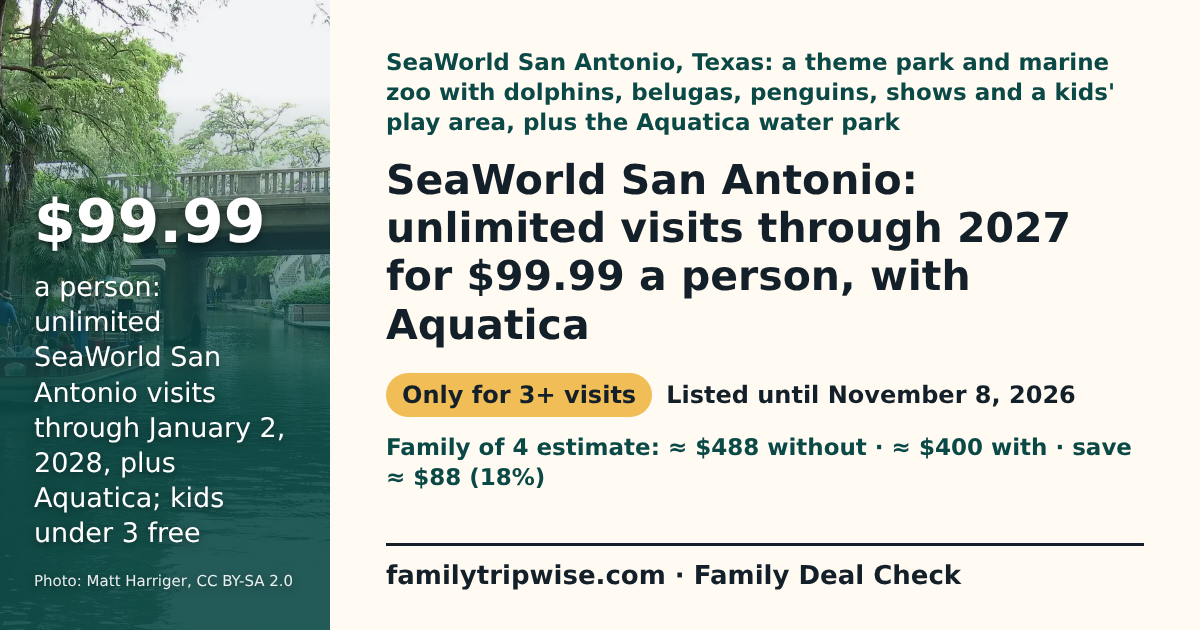
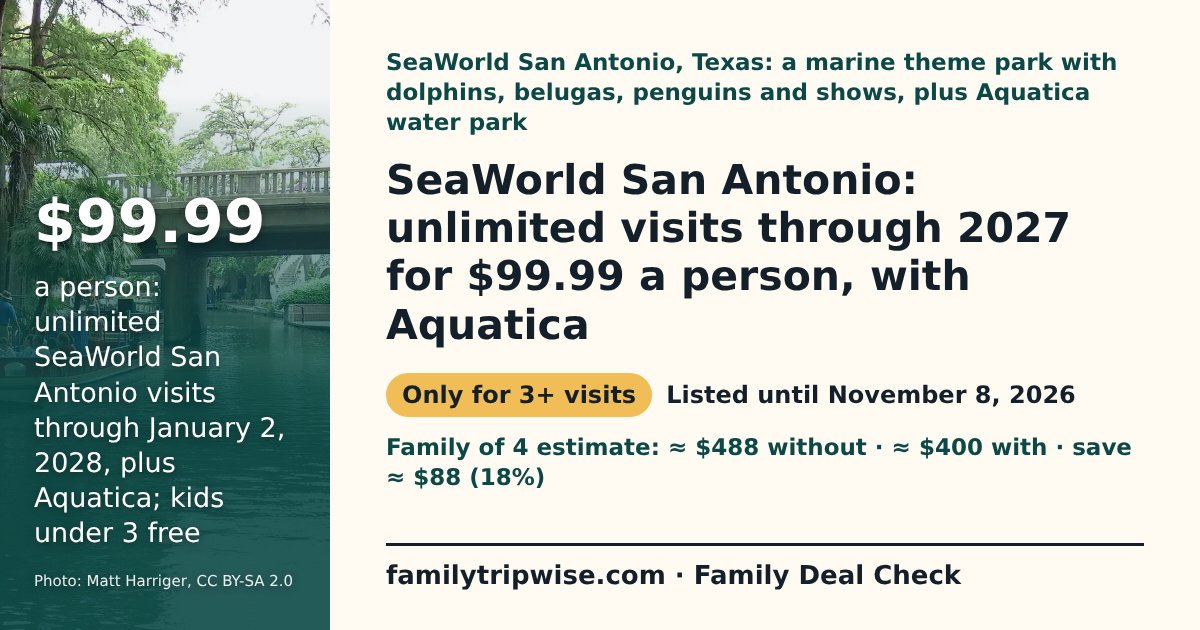
G05/G11 SeaWorld San Antonio review fixes: drop unrecorded pin-trading line, shorter context, rest-of-2026 chip, Aquatica end in post hook
Claude-Session: https://claude.ai/code/session_018uWk6vhNaiqso7SESLPcv7

Changed region(s): [[0.3083, 0.0905, 0.925, 0.2111]]

diff --git a/site/deals/seaworld-san-antonio-2027-season-pass.html b/site/deals/seaworld-san-antonio-2027-season-pass.html
@@ -4,7 +4,7 @@
     <meta charset="utf-8">
     <meta name="viewport" content="width=device-width, initial-scale=1">
     <title>SeaWorld San Antonio 2027 Season Pass: Unlimited Visits for $99.99 a Person | Family Tripwise</title>
-    <meta name="description" content="SeaWorld San Antonio, Texas: a theme park and marine zoo with dolphins, belugas, penguins, shows and a kids&#39; play area, plus the Aquatica water park. SeaWorld San Antonio: unlimited visits through 2027 for $99.99 a person, with Aquatica. Listed until November 8, 2026.">
+    <meta name="description" content="SeaWorld San Antonio, Texas: a marine theme park with dolphins, belugas, penguins and shows, plus Aquatica water park. SeaWorld San Antonio: unlimited visits through 2027 for $99.99 a person, with Aquatica. Listed until November 8, 2026.">
     <link rel="canonical" href="https://familytripwise.com/deals/seaworld-san-antonio-2027-season-pass.html">
     <meta property="og:type" content="article">
     <meta property="og:site_name" content="Family Tripwise">
@@ -24,14 +24,14 @@
       <section class="page-hero deal-hero">
         <div class="container deal-hero-grid">
           <div>
-            <p class="eyebrow deal-context">SeaWorld San Antonio, Texas: a theme park and marine zoo with dolphins, belugas, penguins, shows and a kids&#39; play area, plus the Aquatica water park</p>
+            <p class="eyebrow deal-context">SeaWorld San Antonio, Texas: a marine theme park with dolphins, belugas, penguins and shows, plus Aquatica water park</p>
             <h1>SeaWorld San Antonio: unlimited visits through 2027 for $99.99 a person, with Aquatica</h1>
             <div class="spend-save" role="group" aria-label="What it costs a family of 4 with and without the deal"><p class="ss-title">Estimate for 2 adults and 2 kids aged 6 and 9, 3 park visits in 2027</p>
               <dl class="ss-row"><div><dt>Without the deal</dt><dd>≈ $488</dd></div><div><dt>With the deal</dt><dd>≈ $400</dd></div><div class="ss-save"><dt>You save</dt><dd>≈ $88 <small>(18%)</small></dd></div></dl>
               <p class="ss-basis">Prices checked November 1, 2026. Park tickets only; tax, fees, parking and travel not counted.</p>
               <p class="ss-verdict">From a 3rd visit the Season Pass is cheaper; for two back-to-back days, the $68 Two Day Flex Ticket costs less.</p>
             </div>
-            <ul class="deal-chips" aria-label="Key terms"><li class="deal-chip-verdict deal-verdict-only_for">Only for 3+ visits</li><li>Listed until November 8, 2026</li><li>Pays off from visit 3</li><li>Best for San Antonio-area families</li></ul>
+            <ul class="deal-chips" aria-label="Key terms"><li class="deal-chip-verdict deal-verdict-only_for">Only for 3+ visits</li><li>Listed until November 8, 2026</li><li>Rest of 2026: not stated</li><li>Best for San Antonio-area families</li></ul>
             
             <p class="contributor-credit">Researched with AI (<a href="../contributors/miles-rowan.html">Miles Rowan</a>) · sources linked and dated · <a href="../about.html">How we check</a></p>
           </div>
@@ -65,7 +65,7 @@
       </section>
       <section class="container page-section" aria-labelledby="deal-catch-title">
         <h2 id="deal-catch-title">The catch</h2>
-        <ul class="deal-catch"><li>Each family member aged 3 or older needs a pass.</li><li>Parking is not included, and tax and fees are added at checkout.</li><li>Blockout dates may apply but are not listed, and the page does not say whether 2026 visits are included.</li></ul>
+        <ul class="deal-catch"><li>Each family member aged 3 or older needs a pass.</li><li>Parking is not included, and tax and fees are extra.</li><li>Blockout dates may apply but are not listed, and the page does not say whether 2026 visits are included.</li></ul>
       </section>
       <section class="container page-section" aria-labelledby="deal-how-title">
         <h2 id="deal-how-title">How to get it</h2>
@@ -92,7 +92,7 @@
             <table class="deal-terms" role="table">
               <caption>What the SeaWorld San Antonio offer page said on November 1, 2026</caption>
               <thead role="rowgroup"><tr role="row"><th scope="col" role="columnheader">Term</th><th scope="col" role="columnheader">What the official page says</th></tr></thead>
-              <tbody role="rowgroup"><tr role="row"><th scope="row" role="rowheader">Product</th><td role="cell">SeaWorld + Aquatica 2027 Season Pass, on SeaWorld San Antonio&#39;s tickets page.</td></tr><tr role="row"><th scope="row" role="rowheader">Price shown</th><td role="cell">$99.99 each, with $142.99 shown beside it as the list price.</td></tr><tr role="row"><th scope="row" role="rowheader">Parks</th><td role="cell">SeaWorld San Antonio and Aquatica San Antonio (water park).</td></tr><tr role="row"><th scope="row" role="rowheader">Travel window</th><td role="cell">Unlimited SeaWorld visits through January 2, 2028; Aquatica through October 11, 2027. The page does not say whether visits in the rest of 2026 are included.</td></tr><tr role="row"><th scope="row" role="rowheader">Book by</th><td role="cell">No purchase deadline is stated.</td></tr><tr role="row"><th scope="row" role="rowheader">Blockout dates</th><td role="cell">&quot;Blockout dates may apply&quot;; no dates are listed.</td></tr><tr role="row"><th scope="row" role="rowheader">Child ages</th><td role="cell">Children under 3 do not need a ticket; no separate child price is shown.</td></tr><tr role="row"><th scope="row" role="rowheader">Included extras</th><td role="cell">Discounts on merchandise, photo prints and Quick Queue, plus pin trading and events; separately ticketed events are not included.</td></tr><tr role="row"><th scope="row" role="rowheader">Pass rules</th><td role="cell">Photo ID required; non-transferable and non-refundable.</td></tr><tr role="row"><th scope="row" role="rowheader">Not included</th><td role="cell">Parking, taxes, shipping and service fees are not included in ticket prices (tickets page).</td></tr><tr role="row"><th scope="row" role="rowheader">Day tickets on the same page, for comparison</th><td role="cell">Read November 1, 2026: Single-Day Ticket (ages 3+) $53.99 for a chosen date; Two Day, One Park Flex Ticket $68 a person (2 consecutive days, expires 6 months from purchase); Any Day Ticket $79.99.</td></tr></tbody>
+              <tbody role="rowgroup"><tr role="row"><th scope="row" role="rowheader">Product</th><td role="cell">SeaWorld + Aquatica 2027 Season Pass, on SeaWorld San Antonio&#39;s tickets page.</td></tr><tr role="row"><th scope="row" role="rowheader">Price shown</th><td role="cell">$99.99 each, with $142.99 shown beside it as the list price.</td></tr><tr role="row"><th scope="row" role="rowheader">Parks</th><td role="cell">SeaWorld San Antonio and Aquatica San Antonio (water park).</td></tr><tr role="row"><th scope="row" role="rowheader">Travel window</th><td role="cell">Unlimited SeaWorld visits through January 2, 2028; Aquatica through October 11, 2027. The page does not say whether visits in the rest of 2026 are included.</td></tr><tr role="row"><th scope="row" role="rowheader">Book by</th><td role="cell">No purchase deadline is stated.</td></tr><tr role="row"><th scope="row" role="rowheader">Blockout dates</th><td role="cell">&quot;Blockout dates may apply&quot;; no dates are listed.</td></tr><tr role="row"><th scope="row" role="rowheader">Child ages</th><td role="cell">Children under 3 do not need a ticket; no separate child price is shown.</td></tr><tr role="row"><th scope="row" role="rowheader">Included extras</th><td role="cell">Discounts on merchandise, photo prints and Quick Queue; separately ticketed events are not included.</td></tr><tr role="row"><th scope="row" role="rowheader">Pass rules</th><td role="cell">Photo ID required; non-transferable and non-refundable.</td></tr><tr role="row"><th scope="row" role="rowheader">Not included</th><td role="cell">Parking, taxes, shipping and service fees are not included in ticket prices (tickets page).</td></tr><tr role="row"><th scope="row" role="rowheader">Day tickets on the same page, for comparison</th><td role="cell">Read November 1, 2026: Single-Day Ticket (ages 3+) $53.99 for a chosen date; Two Day, One Park Flex Ticket $68 a person (2 consecutive days, expires 6 months from purchase); Any Day Ticket $79.99.</td></tr></tbody>
             </table>
           </div>
         </details>

diff --git a/site/deals/index.html b/site/deals/index.html
@@ -90,7 +90,7 @@
             <p class="deal-source">Official page, checked October 30, 2026: <a href="https://sesameplace.com/philadelphia/season-pass/">Sesame Place Philadelphia Season Pass page</a></p>
           </article>
           <article class="detail-card deal-card" id="seaworld-san-antonio-2027-season-pass">
-            <p class="fresh-type">SeaWorld San Antonio, Texas: a theme park and marine zoo with dolphins, belugas, penguins, shows and a kids&#39; play area, plus the Aquatica water park</p>
+            <p class="fresh-type">SeaWorld San Antonio, Texas: a marine theme park with dolphins, belugas, penguins and shows, plus Aquatica water park</p>
             <h3><a href="./seaworld-san-antonio-2027-season-pass.html">SeaWorld San Antonio: unlimited visits through 2027 for $99.99 a person, with Aquatica</a></h3>
             <dl class="hub-ss"><div><dt>Without the deal</dt><dd>≈ $488</dd></div><div><dt>With the deal</dt><dd>≈ $400</dd></div><div class="hub-ss-save"><dt>You save</dt><dd>≈ $88 <small>(18%)</small></dd></div></dl>
             <p class="hub-ss-break"><strong>Pays off from your 3rd visit</strong> (estimate, at the same ticket prices).</p>
